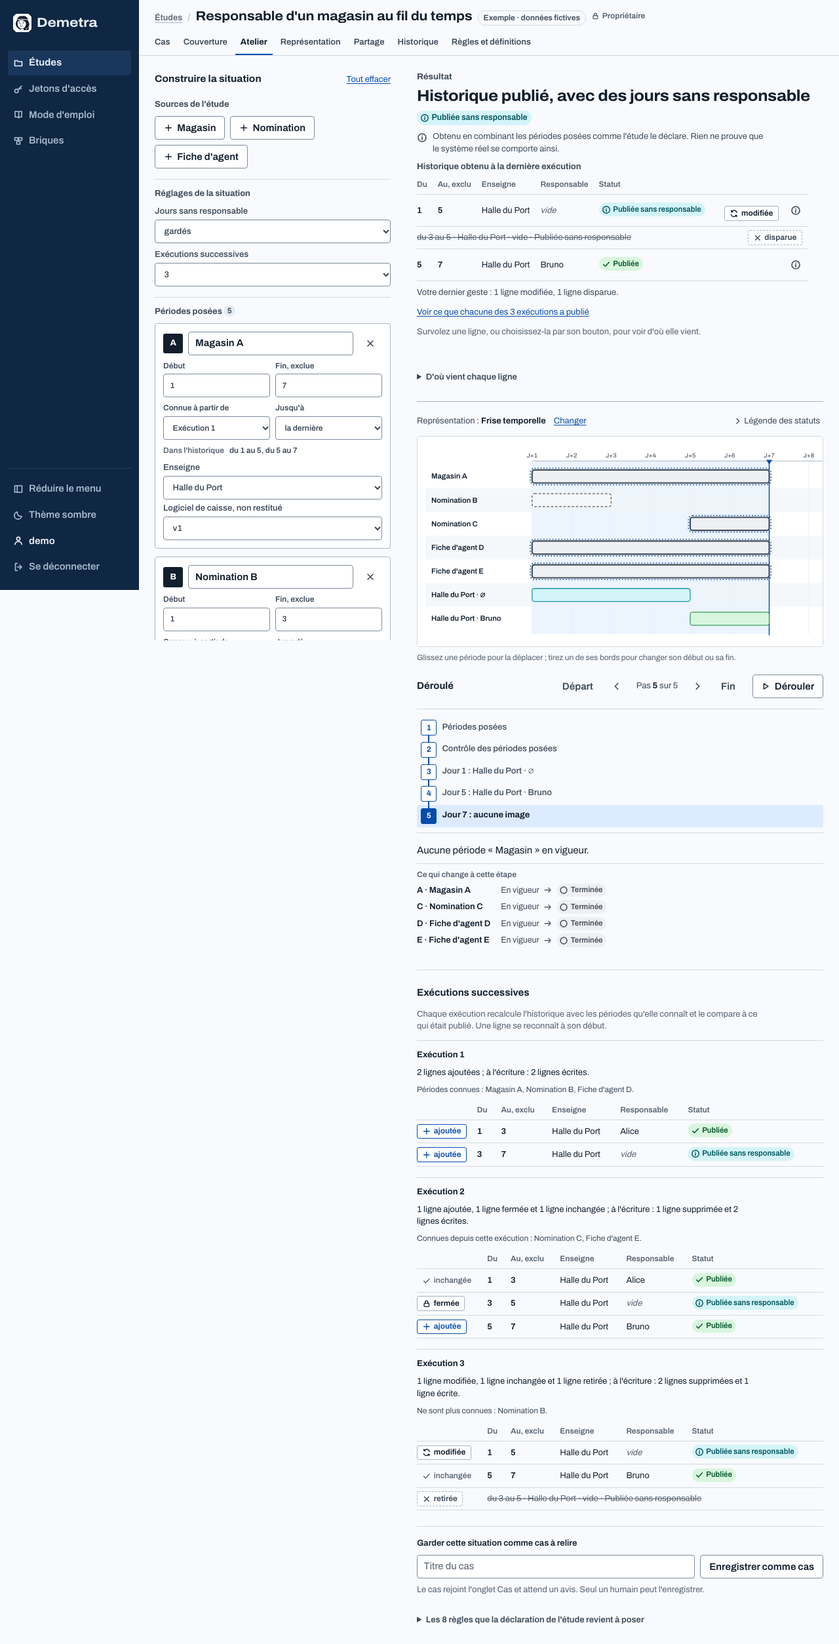
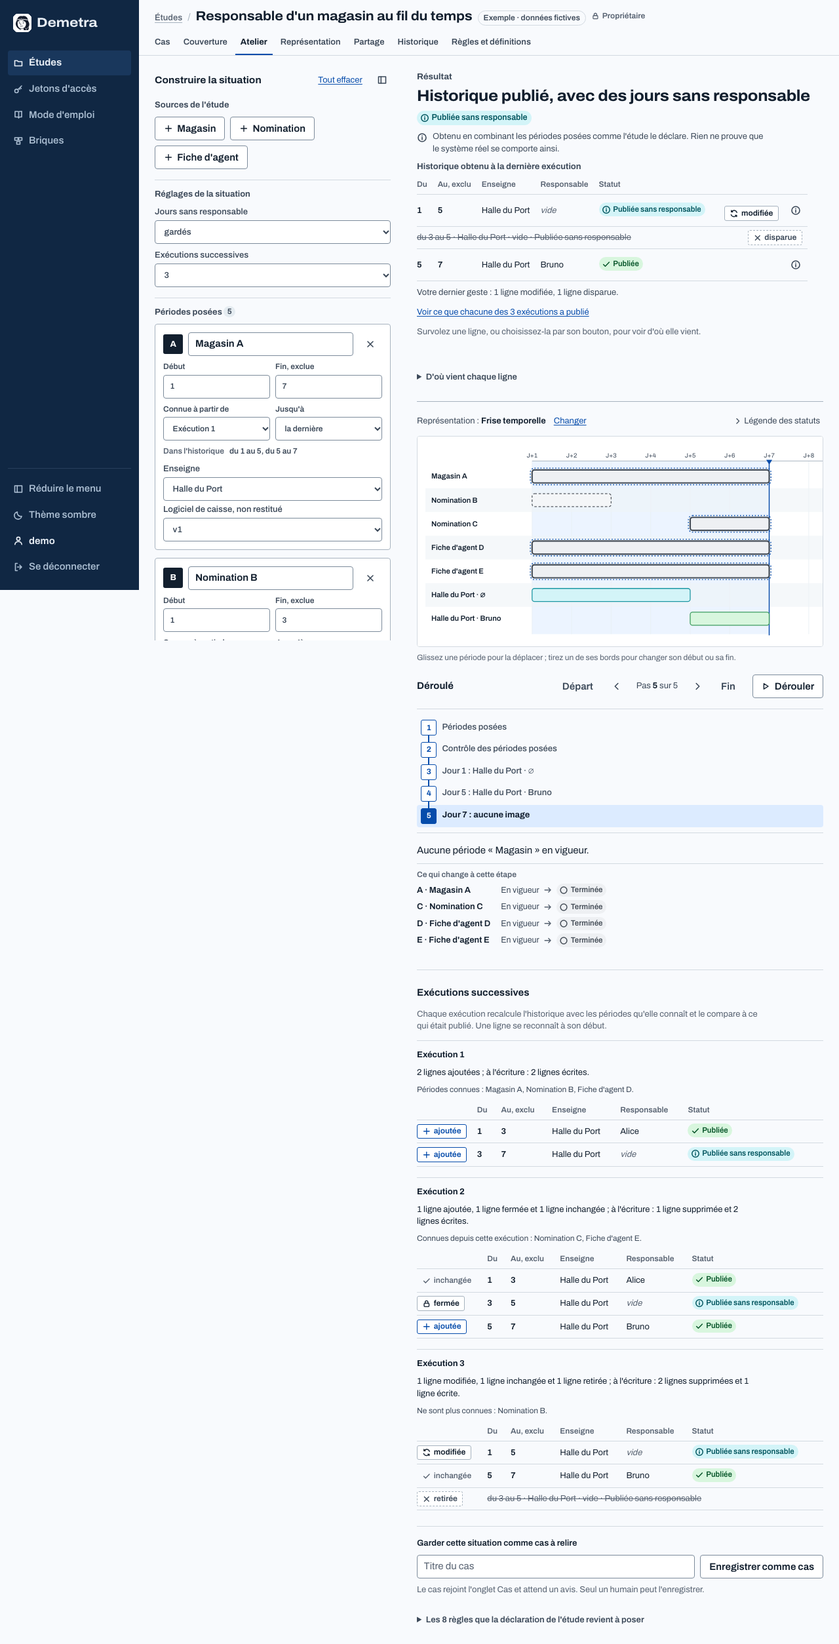
Replier le panneau de construction de l'atelier et cercler la brique choisie dans le schéma
- Sur grand écran, un bouton en bout d'en-tête réduit « Construire la
  situation » à une fine bande : le résultat, le schéma et le déroulé
  prennent toute la largeur. Un bouton le rouvre, cliquer une brique du
  schéma aussi. Le choix est gardé par le navigateur et appliqué avant
  le premier affichage ; une page vide garde toujours son panneau, et
  sous 900 px il n'y a pas de repli.
- La brique (ou la période) choisie se voit des deux côtés : sa fiche
  est cernée et son dessin porte l'anneau plein de l'entité désignée,
  qu'on l'ait cliquée dans le schéma ou qu'on travaille dans sa fiche.
  La marque tient d'un résultat au suivant.
- README, DESIGN, brief de surface, captures ; parcours navigateur.

Changed region(s): [[0.1875, 0.0622, 0.4375, 0.3732], [0.3125, 0.0622, 0.3438, 0.0933]]

diff --git a/core/static/core/app.js b/core/static/core/app.js
@@ -16,6 +16,7 @@
   const DOCKS = {
     rail: ["railMini", "demetra-rail"], list: ["listHidden", "demetra-list"],
     facts: ["foldFacts", "demetra-fold-facts"], legend: ["foldLegend", "demetra-fold-legend"],
+    build: ["buildFolded", "demetra-build"],   // le panneau « Construire la situation » de l'atelier
   };
   const docked = (name) => DOCKS[name][0] in root.dataset;
   function syncDock() {
@@ -44,7 +45,7 @@
       const name = dock.dataset.dock;
       setDock(name, !docked(name));
       // Le bouton qui vient d'être masqué rend la main à son pendant, pour ne pas perdre le focus clavier.
-      if (name === "list" && event.detail === 0) { const other = $$('[data-dock="list"]').find((button) => button.offsetParent !== null); if (other) other.focus(); }
+      if ((name === "list" || name === "build") && event.detail === 0) { const other = $$('[data-dock="' + name + '"]').find((button) => button.offsetParent !== null); if (other) other.focus(); }
     }
     const toggle = event.target.closest("[data-theme-toggle]");
     if (toggle) {
@@ -289,6 +290,7 @@
       if (hint) hint.hidden = !$("[data-at-plan] .n[data-e], [data-at-plan] .tl-bar[data-p]", atelier);
       if (!historyRow(pinned)) pinned = null;
       trace(historyRow(pinned));
+      choose(chosen);
       // Sur une frise, seules les périodes posées se déplacent : une ligne de l'historique n'a pas de bornes à soi.
       $$("[data-at-plan] .tl-bar[data-p]", atelier).forEach((bar) => bar.classList.toggle("is-movable", !!boundsOf(bar.dataset.p)));
     };
@@ -453,6 +455,21 @@
       $$("." + name, atelier).forEach((old) => { if (old !== el) old.classList.remove(name); });
       if (el) el.classList.add(name);
     };
+    /* La brique (ou la période) choisie : celle dont la fiche a eu le focus en dernier, ou qu'on a cliquée dans le
+       schéma. Sa fiche et son dessin portent la même marque, et la gardent d'un résultat au suivant. */
+    let chosen = null;
+    const choose = (id) => {
+      const card = id === null ? null : $('.at-card[data-brick="' + id + '"]', atelier);
+      chosen = card ? id : null;
+      mark(card, "is-shown");
+      $$("[data-at-plan] .is-chosen", atelier).forEach((el) => el.classList.remove("is-chosen"));
+      if (!card) return;
+      $$('[data-at-plan] .n[data-e="' + id + '"], [data-at-plan] .tl-bar[data-p="' + id + '"]', atelier).forEach((el) => el.classList.add("is-chosen"));
+    };
+    atelier.addEventListener("focusin", (event) => {
+      const card = event.target.closest(".at-card");
+      if (card && card.dataset.brick !== chosen) choose(card.dataset.brick);
+    });
     const under = (event, selector) => { const el = doc.elementFromPoint(event.clientX, event.clientY); return el ? el.closest(selector) : null; };
     const inSvg = (svg, x, y) => { const point = svg.createSVGPoint(); point.x = x; point.y = y; return point.matrixTransform(svg.getScreenCTM().inverse()); };
     const closePop = () => { if (pop) pop.remove(); pop = null; mark(null, "is-picked"); };
@@ -543,9 +560,10 @@
     const showCard = (id) => {   // un clic sur une brique du schéma mène à sa fiche
       const field = doc.getElementById("at-name-" + id);
       if (!field) return;
+      if (docked("build")) setDock("build", false);   // panneau replié : demander une fiche le rouvre
       field.closest(".at-card").scrollIntoView({ block: "nearest" });
       field.focus({ preventScroll: true });
-      mark(field.closest(".at-card"), "is-shown");
+      choose(id);
     };
     const begin = () => {
       drag.live = true;

diff --git a/core/static/core/app.css b/core/static/core/app.css
@@ -779,8 +779,18 @@ details.json pre { margin-top: var(--s-2); max-height: 24rem; }
 .atelier { display: grid; gap: var(--s-4); }
 .at-grid { display: grid; grid-template-columns: minmax(0, 23rem) minmax(0, 1fr); gap: var(--s-6); align-items: start; }
 .at-build { display: grid; gap: var(--s-4); align-content: start; position: sticky; top: var(--s-4); max-height: calc(100vh - 2 * var(--s-4)); padding-right: var(--s-2); overflow-y: auto; scrollbar-gutter: stable; scrollbar-width: thin; scrollbar-color: var(--line-strong) transparent; }
-.at-build-head { display: flex; align-items: baseline; justify-content: space-between; gap: var(--s-3); }
-.at-build-head h2 { font-size: var(--t-md); }
+.at-build-head { display: flex; align-items: center; gap: var(--s-3); }
+.at-build-head h2 { margin-right: auto; font-size: var(--t-md); }
+/* Le panneau se replie en une fine bande : le résultat, la frise et les exécutions prennent toute la largeur.
+   Le choix vit dans le navigateur (comme la liste des cas masquée) ; une page vide garde toujours son panneau. */
+.at-dock, .at-undock { display: none; }
+@media (min-width: 901px) {
+  .js .at-dock { display: inline-grid; margin: -0.3rem -0.3rem -0.3rem 0; }
+  .js[data-build-folded] .at-grid:has(.at-card) { grid-template-columns: 2.25rem minmax(0, 1fr); gap: var(--s-4); }
+  .js[data-build-folded] .at-grid:has(.at-card) > .at-build { padding-right: 0; overflow: visible; }
+  .js[data-build-folded] .at-grid:has(.at-card) > .at-build > :not(.at-undock) { display: none; }
+  .js[data-build-folded] .at-grid:has(.at-card) > .at-build > .at-undock { display: inline-grid; }
+}
 .at-build-head .link { font-size: var(--t-sm); }
 /* Cibles d'au moins 24 px : les liens et les titres dépliables de l'écran, sans changer le rythme des lignes. */
 .at-build-head .link, .at-runs-jump .link, .at-plan .cp-rep-head .link { display: inline-block; padding-block: 0.2rem; }
@@ -946,6 +956,9 @@ details.json pre { margin-top: var(--s-2); max-height: 24rem; }
 .at-pop { position: absolute; z-index: 5; display: grid; gap: var(--s-1); max-width: min(24rem, 100%); padding: var(--s-2); border: 1px solid var(--line-strong); border-radius: var(--radius); background: var(--raised); box-shadow: var(--shadow-float); }
 .at-pop .btn { justify-content: flex-start; font-size: var(--t-sm); text-align: left; white-space: normal; }
 .at-card.is-shown { border-color: var(--accent); box-shadow: 0 0 0 1px var(--accent); }
+/* La brique (ou la période) choisie porte dans le schéma le même cerne que sa fiche : l'anneau plein de l'entité
+   désignée, là où « ce qui change à cette étape » est en pointillé. Quand les deux s'appliquent, il l'emporte. */
+.at-plan .n.is-chosen .n-halo, .at-plan .tm-highlight .n.is-chosen .n-halo, .at-plan .tl-bar.is-chosen .n-halo { fill: none; stroke: var(--accent); stroke-width: 2.4; stroke-dasharray: none; opacity: 1; }
 @media (hover: hover) and (pointer: fine) {
   .atelier.is-live .at-drop { display: grid; place-items: center; min-height: 9rem; margin-top: var(--s-3); padding: var(--s-4); border: 1px dashed var(--line-strong); border-radius: var(--radius); color: var(--ink-3); font-size: var(--t-sm); text-align: center; }
   .atelier.is-live .at-drop.is-over { outline: none; border-color: var(--accent); background: var(--accent-soft); color: var(--ink); }

diff --git a/templates/base.html b/templates/base.html
@@ -5,7 +5,7 @@
 <meta name="viewport" content="width=device-width, initial-scale=1">
 <title>{% block title %}Demetra{% endblock %}</title>
 <meta name="description" content="Demetra montre les cas de vos règles de gestion et de vos processus, étape par étape, signale ceux qui manquent et recueille votre avis sur chacun.">
-<script>(function(){document.documentElement.classList.add("js");try{var t=localStorage.getItem("demetra-theme");if(t!=="light"&&t!=="dark"){t=matchMedia("(prefers-color-scheme: dark)").matches?"dark":"light"}document.documentElement.dataset.theme=t;if(localStorage.getItem("demetra-rail")==="1")document.documentElement.dataset.railMini="1";if(localStorage.getItem("demetra-list")==="1")document.documentElement.dataset.listHidden="1";if(localStorage.getItem("demetra-fold-facts")==="1")document.documentElement.dataset.foldFacts="1";if(localStorage.getItem("demetra-fold-legend")==="1")document.documentElement.dataset.foldLegend="1"}catch(e){document.documentElement.dataset.theme="light"}})()</script>
+<script>(function(){document.documentElement.classList.add("js");try{var t=localStorage.getItem("demetra-theme");if(t!=="light"&&t!=="dark"){t=matchMedia("(prefers-color-scheme: dark)").matches?"dark":"light"}document.documentElement.dataset.theme=t;if(localStorage.getItem("demetra-rail")==="1")document.documentElement.dataset.railMini="1";if(localStorage.getItem("demetra-list")==="1")document.documentElement.dataset.listHidden="1";if(localStorage.getItem("demetra-fold-facts")==="1")document.documentElement.dataset.foldFacts="1";if(localStorage.getItem("demetra-fold-legend")==="1")document.documentElement.dataset.foldLegend="1";if(localStorage.getItem("demetra-build")==="1")document.documentElement.dataset.buildFolded="1"}catch(e){document.documentElement.dataset.theme="light"}})()</script>
 <link rel="preload" href="{% static 'core/fonts/archivo-variable.woff2' %}" as="font" type="font/woff2" crossorigin>
 <link rel="stylesheet" href="{% static 'core/tokens.css' %}">
 <link rel="stylesheet" href="{% static 'core/rep.css' %}">

diff --git a/core/templates/core/_workshop.html b/core/templates/core/_workshop.html
@@ -5,9 +5,11 @@
     <button type="submit" hidden tabindex="-1"></button>
     <input type="hidden" name="f" value="1">
     {% for name, value in hidden %}<input type="hidden" name="{{ name }}" value="{{ value }}">{% endfor %}
+    {% if cards %}<button type="button" class="icon-btn at-undock" data-dock="build" aria-label="Rouvrir le panneau « Construire la situation »" title="Rouvrir le panneau « Construire la situation »"><svg class="ic" aria-hidden="true"><use href="#ui-dock"/></svg></button>{% endif %}
     <header class="at-build-head">
       <h2 id="at-build-title" tabindex="-1">Construire la situation</h2>
-      {% if cards %}<a class="link" href="{{ reset_url }}" data-atelier-link>Tout effacer</a>{% endif %}
+      {% if cards %}<a class="link" href="{{ reset_url }}" data-atelier-link>Tout effacer</a>
+      <button type="button" class="icon-btn at-dock" data-dock="build" aria-label="Replier le panneau « Construire la situation »" title="Replier le panneau : le résultat prend toute la largeur"><svg class="ic" aria-hidden="true"><use href="#ui-dock"/></svg></button>{% endif %}
     </header>
     {% if cards %}<a class="link at-jump" href="#at-result-title">Voir le résultat</a>{% endif %}
 

diff --git a/tests/e2e/test_parcours.py b/tests/e2e/test_parcours.py
@@ -852,8 +852,49 @@ def test_atelier_glisser_deposer(site, browser):
     # Cliquer une brique du schéma mène à sa fiche ; un simple clic sur la palette pose une brique.
     page.locator('.n[data-e="B"]').click()
     assert page.evaluate("document.activeElement.id") == "at-name-B"
+    # La brique choisie se voit aux deux endroits : sa fiche est entourée, son dessin cerclé.
+    chosen = page.locator("[data-at-plan] .is-chosen")
+    expect(page.locator(".at-card.is-shown")).to_have_attribute("data-brick", "B")
+    expect(chosen).to_have_attribute("data-e", "B")
     task.click()
     expect(page.locator(".at-card")).to_have_count(4)
+    expect(chosen).to_have_attribute("data-e", "B")  # la marque tient d'un résultat au suivant
+    # Choisir une fiche, par l'un de ses champs, cercle sa brique dans le schéma.
+    page.locator("#at-name-C").click()
+    expect(chosen).to_have_attribute("data-e", "C")
+    expect(page.locator(".at-card.is-shown")).to_have_attribute("data-brick", "C")
+    halo = chosen.locator(".n-halo").evaluate("(el) => getComputedStyle(el).strokeWidth")
+    assert halo == "2.4px", halo
+    # Le panneau de construction se replie : le résultat prend la largeur, et le choix survit au rechargement.
+    wide = page.locator(".at-out").bounding_box()["width"]
+    page.locator(".at-dock").focus()
+    page.keyboard.press("Enter")
+    expect(page.locator(".at-cards")).to_be_hidden()
+    expect(page.locator(".at-undock")).to_be_focused()  # le focus passe au bouton qui rouvre
+    assert page.locator(".at-out").bounding_box()["width"] > wide + 250
+    page.reload()
+    expect(page.locator(".at-cards")).to_be_hidden()
+    expect(page.locator(".at-undock")).to_be_visible()
+    assert page.evaluate("document.documentElement.scrollWidth <= document.documentElement.clientWidth")
+    # Demander la fiche d'une brique rouvre le panneau.
+    page.locator('.n[data-e="A"]').click()
+    expect(page.locator(".at-cards")).to_be_visible()
+    assert page.evaluate("document.activeElement.id") == "at-name-A"
+    expect(chosen).to_have_attribute("data-e", "A")
+    # Replié de nouveau : à 390 px il n'y a pas de repli, et une page vide garde son panneau.
+    page.locator(".at-dock").click()
+    expect(page.locator(".at-cards")).to_be_hidden()
+    page.set_viewport_size({"width": 390, "height": 844})
+    expect(page.locator(".at-cards")).to_be_visible()
+    expect(page.locator(".at-undock")).to_be_hidden()
+    page.set_viewport_size({"width": 1280, "height": 900})
+    built = page.url
+    page.goto(built.split("?")[0])
+    expect(page.locator(".at-drop")).to_be_visible()
+    expect(page.locator(".at-palette")).to_be_visible()
+    page.goto(built)
+    page.locator(".at-undock").click()
+    expect(page.locator(".at-cards")).to_be_visible()
     # Relâcher un lien dans le vide ne pose rien.
     _glisser(page, _centre(page.locator('.n[data-e="B"]')), (plan["x"] + 12, plan["y"] + plan["height"] - 12))
     expect(links).to_have_count(1)
@@ -1283,6 +1324,10 @@ def test_atelier_etude_de_periodes_semee(site, browser):
     expect(page.locator('input[name="a.C"]')).to_have_value("8")
     expect(rows).to_have_count(3)
     assert writes == []
+    # Une période choisie par sa fiche est cerclée sur la frise.
+    page.locator("#at-de-C").click()
+    expect(page.locator("[data-at-plan] .tl-bar.is-chosen")).to_have_attribute("data-p", "C")
+    expect(page.locator(".at-card.is-shown")).to_have_attribute("data-brick", "C")
 
     page.select_option('select[name="r.sans_responsable"]', "retirés")
     expect(rows).to_have_count(2)

diff --git a/DESIGN.md b/DESIGN.md
@@ -371,7 +371,7 @@ Sous 900 px, le rail devient un bandeau horizontal avec un bouton de menu (cible
 
 Le mode focus masque le rail, l'en-tête d'étude et la liste, et centre le panneau du cas.
 
-Au-dessus de 900 px, deux panneaux se replient et leur état est mémorisé, appliqué avant le premier affichage : le rail se réduit à une bande d'icônes de 3.5rem (libellés masqués à l'œil, conservés pour les lecteurs d'écran ; touche M), et la liste des cas se masque (touche L), le panneau du cas se centrant alors dans la largeur libérée. Chaque repli a son bouton à l'endroit replié et un bouton pour revenir : en pied de rail pour le menu, dans l'en-tête de la liste puis dans l'en-tête du cas pour la liste.
+Au-dessus de 900 px, trois panneaux se replient et leur état est mémorisé, appliqué avant le premier affichage : le rail se réduit à une bande d'icônes de 3.5rem (libellés masqués à l'œil, conservés pour les lecteurs d'écran ; touche M), la liste des cas se masque (touche L), le panneau du cas se centrant alors dans la largeur libérée, et le panneau « Construire la situation » de l'atelier se réduit à une bande de 2.25rem qui ne porte que le bouton pour le rouvrir, le résultat prenant toute la largeur. Chaque repli a son bouton à l'endroit replié et un bouton pour revenir : en pied de rail pour le menu, dans l'en-tête de la liste puis dans l'en-tête du cas pour la liste, en bout d'en-tête du panneau puis en tête de sa bande pour l'atelier (même icône ; au clavier, le focus passe de l'un à l'autre). Une page d'atelier vide garde toujours son panneau ; demander la fiche d'une brique depuis le schéma le rouvre.
 
 ### Named Rules
 **Règle du papier quadrillé.** Le quadrillage (`grid`, pas de 16 px) est réservé au canevas de la représentation. Aucune page, carte, section ou bloc de l'application ne le porte en décor.
@@ -489,7 +489,7 @@ Neuf représentations s'ajoutent aux sept premières ; elles suivent les mêmes 
 - **Brique posée.** Une fiche cernée `line-strong` sur fond `raised` : une lettre en aplat `ink` (A, B, C… sans I ni O), le nom dans un champ, une croix pour la retirer. Dessous, « À la fin » et la pastille de son état final. Puis ses options, ce qui lui arrive, ses liens.
 - **Case à cocher (`tick`).** Une option à deux valeurs, un réglage à deux valeurs ou un évènement : une pastille arrondie avec sa case native. Cochée : bordure `accent`, fond `accent-soft` ; pour un évènement (« il lui arrive »), teinte `warning`, parce qu'il perturbe la situation. Une option à plus de deux valeurs est une liste déroulante sous son libellé.
 - **Liens.** Sous un filet : chaque lien dit depuis la brique (« dépend de **Task A** », « précède **Task C** »), avec sa croix ; puis une liste « Relier à… », groupée par sens de lecture. Choisir une brique pose le lien.
-- **Glisser-déposer (souris, stylet).** Le schéma est le plan de travail. Une brique glissée depuis la palette suit le pointeur sous la forme d'une étiquette cernée `accent` ; le schéma survolé prend un contour en tirets `accent`. Déposée sur une brique, elle s'y enchaîne : la brique visée prend un anneau `accent`. Un lien se tire d'une brique à une autre : trait `accent` en tirets terminé par un point, anneau `accent` sur la brique de départ et sur la brique visée si l'étude permet le lien ; sinon le curseur « interdit », et une phrase sous le schéma dit pourquoi. Un lien survolé passe en `accent` ; cliqué, il ouvre un petit cadre flottant (`raised`, `shadow-float`) avec un seul bouton « Retirer le lien ». Quand l'étude permet plusieurs liens entre deux briques, le même cadre les propose. Cliquer une brique mène à sa fiche, cernée `accent`. Le site place les briques : elles ne se déplacent pas à la main. Sous le schéma, une ligne `t-xs` `ink-3` rappelle les gestes. Au doigt, on tire les liens sur le schéma, mais on touche la palette au lieu de la glisser. Tout geste a son équivalent au clavier dans la colonne de gauche.
+- **Glisser-déposer (souris, stylet).** Le schéma est le plan de travail. Une brique glissée depuis la palette suit le pointeur sous la forme d'une étiquette cernée `accent` ; le schéma survolé prend un contour en tirets `accent`. Déposée sur une brique, elle s'y enchaîne : la brique visée prend un anneau `accent`. Un lien se tire d'une brique à une autre : trait `accent` en tirets terminé par un point, anneau `accent` sur la brique de départ et sur la brique visée si l'étude permet le lien ; sinon le curseur « interdit », et une phrase sous le schéma dit pourquoi. Un lien survolé passe en `accent` ; cliqué, il ouvre un petit cadre flottant (`raised`, `shadow-float`) avec un seul bouton « Retirer le lien ». Quand l'étude permet plusieurs liens entre deux briques, le même cadre les propose. Cliquer une brique mène à sa fiche, cernée `accent`. La brique choisie — celle qu'on vient de cliquer, ou dont la fiche a le focus — se voit aux deux endroits à la fois : sa fiche cernée `accent`, son dessin dans le schéma (nœud du graphe, barre de la frise) entouré de l'anneau plein `accent` de l'entité désignée ; la marque tient d'un résultat au suivant, et l'emporte sur le pointillé de « ce qui change à cette étape ». Le site place les briques : elles ne se déplacent pas à la main. Sous le schéma, une ligne `t-xs` `ink-3` rappelle les gestes. Au doigt, on tire les liens sur le schéma, mais on touche la palette au lieu de la glisser. Tout geste a son équivalent au clavier dans la colonne de gauche.
 - **Page vide.** À droite, le titre de l'atelier que l'étude déclare, une phrase qui dit quoi faire, un cadre en tirets où déposer la première brique (souris seulement), et les règles de l'étude dépliées. Pas d'illustration.
 - **Résultat.** Le titre « Résultat » en `t-sm` `ink-2`, puis le résultat d'ensemble en `t-2xl` graisse 720 (`t-xl` sous 900 px) ; la pastille de son statut suit, sauf si le libellé le dit déjà. Dessous, le compte des briques par état final (nombre en gras, pastille), puis une phrase à icône d'information : en combien de pas, d'après les règles déclarées, et que rien ne prouve que le système réel se comporte ainsi. Une situation qui ne se stabilise pas le dit dans un encadré `warning`, et le titre du résultat devient « Situation non stabilisée » : le résultat d'ensemble que l'étude déclare ne s'annonce que d'un déroulé qui a abouti.
 - **Déroulé.** Le déroulé et la représentation du panneau de cas. Chaque pas porte pour titre la règle appliquée ; sa note dit à quelle brique. Au-dessus, la barre d'avance : « Départ », précédent, « Pas n sur N », suivant, « Fin », et « Dérouler » qui avance seul d'un pas toutes les 0,9 s et devient « Arrêter ». On arrive sur le dernier pas : le résultat d'abord. Le schéma est redessiné quand la situation change, jamais d'un pas à l'autre. Jamais de zone d'avis ici.

diff --git a/README.md b/README.md
@@ -217,9 +217,16 @@ un **vocabulaire fermé** (état, option, évènement, réglage, voisins directs
 moins un / aucun, et / ou / non) : **aucun code fourni par l'étude n'est exécuté**. Le déroulé est dessiné par la
 représentation de l'étude, comme un cas ; on le suit au clavier, par les boutons, ou en le laissant défiler.
 
+**Le panneau de construction se replie.** Sur grand écran, un bouton en bout de son en-tête réduit « Construire
+la situation » à une fine bande : le résultat, le schéma et le déroulé prennent toute la largeur. Un bouton le
+rouvre, cliquer une brique du schéma aussi. Le choix est gardé par le navigateur ; une page vide garde toujours
+son panneau, et sur téléphone, où tout est en une colonne, il n'y a pas de repli.
+
 **À la souris, le schéma est le plan de travail.** On y glisse une brique de la palette ; déposée sur une
 brique, elle s'y enchaîne par le lien que l'étude permet. On tire un lien d'une brique à une autre ; on clique
-un lien pour le retirer ; on clique une brique pour aller à sa fiche. Le site place les briques lui-même : on ne
+un lien pour le retirer ; on clique une brique pour aller à sa fiche. La brique choisie se voit des deux côtés :
+sa fiche est entourée, son dessin est cerclé dans le schéma — qu'on l'ait cliquée dans le schéma ou qu'on
+travaille dans sa fiche. Le site place les briques lui-même : on ne
 les déplace pas à la main. Un lien que l'étude ne permet pas n'est pas posé, et le site dit pourquoi. Ces gestes
 sont des raccourcis : les boutons de la palette et la liste « Relier à… » de chaque fiche font la même chose au
 clavier, au doigt et sans script.

diff --git a/.impeccable/surfaces/core-templates-core-workshop-html.md b/.impeccable/surfaces/core-templates-core-workshop-html.md
@@ -22,7 +22,7 @@ OWN-WORLD : celui de DESIGN.md. Palette de boutons « + brique », fiches cerné
 
 STORY : « je pose trois tâches, je les relie, j'en fais échouer une, et je vois ce que les règles de l'étude en font ».
 
-FIRST VIEWPORT : à gauche (23rem, collante), « Construire la situation » : palette, réglages, briques posées. À droite : « Résultat », le compte des briques par état final, la phrase sur l'origine, puis le schéma (plan de travail) et le déroulé. Page vide : le titre de l'atelier, une phrase, les règles de l'étude. Sous 900 px, la construction passe au-dessus, avec un lien « Voir le résultat ».
+FIRST VIEWPORT : à gauche (23rem, collante, repliable en une bande de 2.25rem au-dessus de 900 px), « Construire la situation » : palette, réglages, briques posées ; la brique choisie est cernée dans sa fiche et cerclée dans le schéma. À droite : « Résultat », le compte des briques par état final, la phrase sur l'origine, puis le schéma (plan de travail) et le déroulé. Page vide : le titre de l'atelier, une phrase, les règles de l'étude. Sous 900 px, la construction passe au-dessus, avec un lien « Voir le résultat ».
 
 FORM : construction à gauche, réponse à droite. seed: none (pinned) — voir la demande ci-dessus.
 
